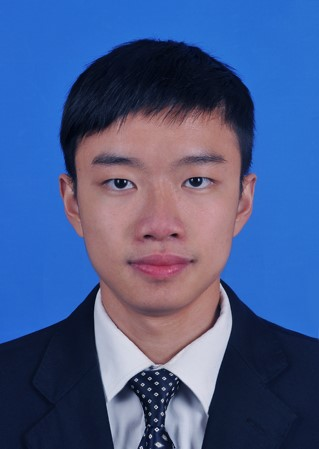
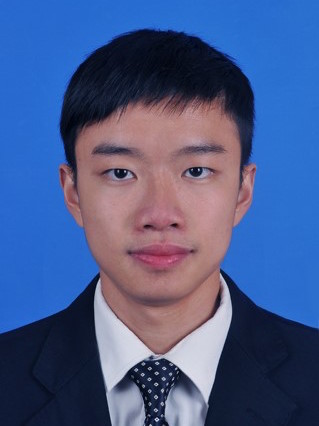
压缩了图片大小

diff --git a/root/src/pages/index.html b/root/src/pages/index.html
@@ -235,9 +235,9 @@
               <div class="col-md-8 col-sm-8 col-md-offset-2 col-sm-offset-2">
                 <div class="carousel-caption">
                   <div class="carousel-text">
-                    <h1 class="animated fadeInDownBig animation-delay-1 intro-title">
-                      激情
-                      <span class="element" data-elements="是我们永恒的创造力"></span>
+                    <h1 class="animated fadeInDownBig animation-delay-1 intro-title" style="font-weight:700;">
+                      年轻
+                      <span class="element" data-elements="&nbsp;就是无极限"></span>
                     </h1>
                     <p class="animated fadeInUpBig animation-delay-8 margin-t-md hidden-print hidden-sm hidden-xs">
                       Et harum quidem rerum facilis est et expedita distinctio. Nam libero tempore,
@@ -259,17 +259,10 @@
               <div class="col-md-8 col-sm-8 col-md-offset-2 col-sm-offset-2">
                 <div class="carousel-caption">
                   <div class="carousel-text">
-                    <h1 class="animated fadeInDownBig animation-delay-1 carousel-title">
-                      Are
-                      We
-                      Creative
+                    <h1 class="animated fadeInDownBig animation-delay-1 carousel-title" style="font-weight:700;padding-bottom:60px;">
+                      激情是创造力永恒的源泉
                     </h1>
-                    <p class="animated fadeInUpBig animation-delay-8 margin-t-md">
-                      Et harum quidem rerum facilis est et expedita distinctio. Nam libero tempore,
-                      <br/>
-                      cum soluta nobis est eligendi optio cumque nihil impedit quo facilis
-                    </p>
-                    <a href="#" class="btn btn-custom animated fadeInUpBig animation-delay-12 margin-t-md">Learn More</a>
+                    <a href="#" class="btn btn-custom animated fadeInUpBig animation-delay-12 margin-t-md">了解更多</a>
                   </div>
                 </div>
               </div>
@@ -284,14 +277,9 @@
               <div class="col-md-8 col-sm-8 col-md-offset-2 col-sm-offset-2">
                 <div class="carousel-caption">
                   <div class="carousel-text">
-                    <h1 class="animated fadeInDownBig animation-delay-1 carousel-title">
-                      Say
-                      Hello
-                      to Lorem Ipsum Dolor
+                    <h1 class="animated fadeInDownBig animation-delay-1 carousel-title" style="font-weight:700;padding-bottom:60px;">
+                      中国日活动精彩回顾
                     </h1>
-                    <p class="animated fadeInUpBig animation-delay-8 margin-t-md">
-                      Et harum quidem rerum facilis est et expedita distinctio. Nam libero tempore,
-                    </p>
                     <a href="#" class="btn btn-custom animated fadeInUpBig animation-delay-12 margin-t-md">Purchase Now</a>
                   </div>
                 </div>
